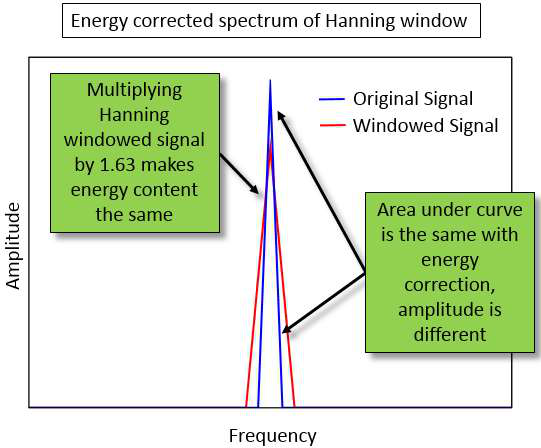
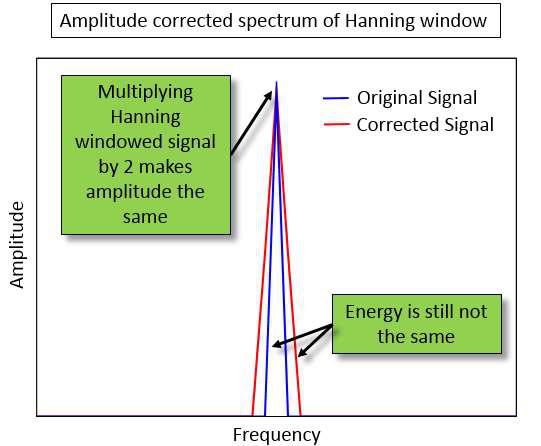
refine: 精修《窗函数修正系数：幅值校正 vs 能量校正》

Changed region(s): [[0.0, 0.1166, 1.0, 1.0], [0.0887, 0.0, 0.9168, 0.0874]]

diff --git a/docs/posts/theory/signal-processing/window-correction-factors.md b/docs/posts/theory/signal-processing/window-correction-factors.md
@@ -4,79 +4,169 @@ title: "窗函数修正系数：幅值校正 vs 能量校正"
 
 # 窗函数修正系数：幅值校正 vs 能量校正
 
-> 加窗抑制了泄漏，却也把信号的幅值和能量都"压小"了——汉宁窗直接让谱峰缩水一半。窗函数修正系数就是补回这笔账的手段，但幅值校正和能量校正只能二选一，选错了，峰值读数或 RMS 能量就会差出 20% 以上。本文讲清两种校正各自修的是什么、Simcenter Testlab 里怎么设、以及 RMS 计算背后自动做的手脚。
+> 加窗在抑制泄漏（leakage）的同时，也会同时压缩信号的谱线幅值与能量。窗函数修正系数（window correction factor）通过在频域对每条谱线乘一个由窗类型决定的固定系数来补偿这种失真，但幅值校正（amplitude correction）与能量校正（energy correction）的系数并不相等——汉宁窗的幅值修正系数为 2.00，能量修正系数为 1.633，同一条谱线只能取其一。本文从汉宁窗的定义出发分步推导两种系数，给出 Simcenter Testing Knowledge Base 与 LMS 理论手册的完整系数表，说明 Simcenter Testlab 中的设置位置，以及 RMS 计算在后台自动换用能量校正值的行为。
 
-## 一、加窗的代价：数据被整体压低了
+## 一、加窗的代价：幅值与能量同时被压缩
 
-用汉宁窗对付泄漏是对的，但窗不是免费午餐。时域上信号乘以窗函数，相当于把中间抬高、两端压到零，信号的峰值和曲线下的面积（能量）同时被削减。
+用汉宁窗抑制泄漏是正确的选择，但这一操作本身会引入新的失真。时域上信号乘以窗函数，相当于对样本施加中间高、两端为零的权重：信号的峰值（幅值）与曲线下的面积（能量）同时被削减。
 
-![汉宁窗压低信号的幅值与能量](/images/window-correction-factors/fig1-hann-distortion.png)
+![信号（蓝）乘以汉宁窗（绿）后，幅值与能量同时被压缩（红）](/images/window-correction-factors/fig1-hann-distortion.png)
 
 *（图源：Simcenter Testing Knowledge Base）*
 
-对一个周期正弦信号加汉宁窗，谱峰幅值恰好被压低为原来的一半。不补回来，频谱上读到的每一条谱线都系统性偏低——做阶次切片、对标声学目标线时，这个偏差会一路带进结论。
+对一个周期正弦信号加汉宁窗，谱峰幅值恰好被压缩为原来的一半。若不补偿，频谱上每条谱线都系统性偏低——做阶次切片、对标声学目标线时，该偏差会一路传递进结论。
 
 ::: info 核心概念
-- **幅值失真**：加窗后谱线峰值整体降低，读到的"这条频率有多大"偏小
-- **能量失真**：频谱曲线下的总面积（对应信号总能量/RMS）同步缩小
-- **修正系数（Correction Factor）**：对窗后频谱的每条谱线统一乘一个固定系数，由窗类型决定，在频域实施
+- **幅值失真（amplitude distortion）**：加窗后谱线峰值整体降低，「这条频率分量有多大」的读数偏小
+- **能量失真（energy distortion）**：频谱曲线下的总面积（对应信号总能量/RMS）同步缩小
+- **修正系数（correction factor）**：对窗后频谱的每条谱线统一乘一个固定系数，系数由窗类型决定，在频域实施
 :::
 
-## 二、幅值校正与能量校正：只能修一个
+## 二、两种修正系数的定义与推导
 
-两种失真对应两种修正系数，但它们不相等——汉宁窗幅值修正系数是 2.00，能量修正系数是 1.633。同一条谱线不可能同时乘两个系数，所以**幅值校正和能量校正只能二选一**：
+### 2.1 汉宁窗的幅值修正系数
 
-| 窗类型 | 幅值修正系数 | 能量修正系数 | 适用对象 |
+汉宁窗的时域表达式为
+
+$$
+w(n) = \frac{1}{2}\left(1 - \cos\frac{2\pi n}{N}\right), \quad n = 0, 1, \ldots, N-1
+$$
+
+其中 $N$ 为窗长（样本数），$w(n)$ 无量纲。信号 $x(n)$ 加窗后为 $x(n)\,w(n)$。
+
+**第一步：求窗序列的均值（相干增益，coherent gain）。**
+
+$$
+\mathrm{CG} = \frac{1}{N}\sum_{n=0}^{N-1} w(n)
+= \frac{1}{2N}\sum_{n=0}^{N-1}\left(1 - \cos\frac{2\pi n}{N}\right)
+= \frac{1}{2} - \frac{1}{2N}\sum_{n=0}^{N-1}\cos\frac{2\pi n}{N}
+= \frac{1}{2}
+$$
+
+整周期上余弦序列的取和为零，故均值只剩 $1/2$。物理意义：窗的平均权重就是谱线幅值被缩放的倍数——这正是周期正弦加汉宁窗后谱峰减半的解析原因。
+
+**第二步：幅值修正系数取相干增益的倒数。**
+
+$$
+K_a = \frac{1}{\mathrm{CG}} = \frac{N}{\sum_{n=0}^{N-1} w(n)} = 2.00
+$$
+
+物理意义：把被窗的平均权重压缩的谱线幅值补回原始量级。
+
+### 2.2 汉宁窗的能量修正系数
+
+**第一步：求加窗后信号均方值的缩放倍数（功率增益）。**
+
+$$
+\frac{1}{N}\sum_{n=0}^{N-1} w^2(n)
+= \frac{1}{4N}\sum_{n=0}^{N-1}\left(1 - 2\cos\frac{2\pi n}{N} + \cos^2\frac{2\pi n}{N}\right)
+= \frac{1}{4}\left(1 + \frac{1}{2}\right)
+= \frac{3}{8}
+$$
+
+其中用到 $\sum\cos(2\pi n/N) = 0$ 与 $\sum\cos^2(2\pi n/N) = N/2$（整周期条件）。物理意义：窗的均方权重即信号功率被缩放的倍数——加汉宁窗后均方值缩至 37.5%。
+
+**第二步：均方根量级缩放为其平方根。**
+
+$$
+\sqrt{\frac{3}{8}} \approx 0.612
+$$
+
+LMS 理论手册中「加窗后信号的能量仅为原信号能量的 61%」即按此均方根量级表述。
+
+**第三步：能量修正系数。**
+
+$$
+K_e = \sqrt{\frac{N}{\sum_{n=0}^{N-1} w^2(n)}} = \sqrt{\frac{8}{3}} \approx 1.633
+$$
+
+物理意义：把被窗的均方权重压缩的能量/RMS 量级补回原始值。手册据此给出「加汉宁窗后的数据需倍乘 1.63 以校正能量」。
+
+### 2.3 各窗型的修正系数表
+
+Simcenter Testing Knowledge Base 的 Window Correction Factors 一文与 LMS 理论手册表 1.2 给出了一致的系数表：
+
+| 窗类型 | 幅值修正系数 | 能量修正系数 | 典型用途（据 LMS 理论手册） |
 | --- | --- | --- | --- |
-| **Uniform（不加窗）** | 1.00 | 1.00 | 唯一两种系数相同的窗 |
-| **Hanning** | 2.00 | 1.633 | 通用频谱分析 |
-| **Flattop** | — | 2.225 | 幅值精度要求高的标定类测量 |
+| **Uniform（矩形/不加窗）** | 1.00 | 1.00 | 唯一两种系数相同的窗；瞬态信号、整周期采样 |
+| **Hanning** | 2.00 | 1.63 | 随机信号的一般目的分析 |
+| **Hamming** | 1.85 | 1.59 | 最高旁瓣低，适用动态范围约 50 dB |
+| **Blackman** | 2.80 | 1.97 | 检测强信号中的弱分量 |
+| **Kaiser-Bessel** | 2.49 | 1.86 | 区分幅值差别大的多音信号 |
+| **Flattop（平顶）** | 4.18 | 2.26 | 纯音信号的精确幅值测量、系统标定 |
 
-选幅值校正（×2.00），谱峰回到真实值——原始信号和校正后信号的峰对得整整齐齐；但峰值对了，曲线下面积就过了头，能量偏大。
-
-![幅值校正后谱峰一致但能量偏大](/images/window-correction-factors/fig4-amplitude-corrected.png)
-
-*（图源：Simcenter Testing Knowledge Base）*
-
-改用能量校正（×1.633），曲线下面积与原始信号一致，总能量对了；代价是谱峰只回到 0.82 左右，单条谱线的峰值读数偏低。
-
-![官方修正系数表](/images/window-correction-factors/fig2-correction-table.png)
+![Simcenter Testing Knowledge Base 给出的窗函数修正系数表](/images/window-correction-factors/fig2-correction-table.png)
 
 *（图源：Simcenter Testing Knowledge Base）*
 
-::: warning 工程注意
-拿幅值校正后的频谱去做能量类计算（部分频段 RMS、总声压级合成），结果会系统性偏大——汉宁窗下 RMS 偏差约 +22%。反过来，用能量校正的谱去读单条谱峰，峰值偏低约 18%。两种校正的差异不是四舍五入误差，是方法选择问题。
+
+三点说明。其一，只有 Uniform 窗（等价于不加窗）的两种系数相同且等于 1，其余窗型两者必然不等。其二，Knowledge Base 的 RMS 计算专题文章在能量校正语境下给 Flattop 窗的系数为 2.225，与上表的 2.26 略有出入，源于 Flattop 窗定义变体的取法不同，不影响本文的方法与结论。其三，LMS 手册表 1.2 还给出重复加窗的情形：汉宁窗施加两次（x2）系数为 2.67/1.91，三次（x3）为 3.20/2.11，即修正系数取决于窗类型与施加次数。
+
+## 三、幅值校正与能量校正只能取其一
+
+两种失真对应两种修正系数，但 $K_a \neq K_e$，同一条谱线不可能同时乘两个系数，因此**幅值校正与能量校正只能二选一**。
+
+选幅值校正（汉宁窗乘 2.00），谱峰回到真实值——校正后谱峰与原始信号一致；但峰值补齐后，曲线下面积随之过补偿，能量偏大。
+
+![幅值校正（乘 2）后谱峰与原始信号一致，但曲线下面积偏大](/images/window-correction-factors/fig4-amplitude-corrected.png)
+
+*（图源：Simcenter Testing Knowledge Base）*
+
+改用能量校正（乘 1.633），曲线下面积与原始信号一致，总能量得到补偿；代价是谱峰只回到
+
+$$
+0.5 \times 1.633 \approx 0.816
+$$
+
+即真实峰值的 82% 左右，单条谱线的峰值读数偏低。
+
+![能量校正（乘 1.63）后曲线下面积与原始信号一致，但谱峰偏低](/images/window-correction-factors/fig5-energy-corrected.png)
+
+*（图源：Simcenter Testing Knowledge Base）*
+
+两种校正的偏差可以定量给出。取两系数之比：
+
+$$
+\frac{K_a}{K_e} = \frac{2.00}{1.633} \approx 1.225
+$$
+
+::: warning 偏差的量级
+用幅值校正后的频谱做能量类计算（部分频段 RMS、总声压级合成），结果系统性偏大——汉宁窗下 RMS 偏差约 +22.5%；反之，用能量校正的谱读单条谱峰，峰值偏低约 18%。该差异不是舍入误差，而是校正模式的选择问题。
 :::
 
-::: tip 怎么选
-- 看单条谱线的幅值（阶次幅值、峰值对标、标定）→ 幅值校正
-- 看能量类指标（频段 RMS、声压级、PSD）→ 能量校正
-- Simcenter Testlab 默认的 Automatic 模式就是按这个逻辑分的：Spectrum/Autopower/Orders 用幅值校正，Power Spectral Density 用能量校正
+::: tip 选择依据
+- 读单条谱线幅值（阶次幅值、峰值对标、标定）：幅值校正
+- 算能量类指标（频段 RMS、声压级、PSD）：能量校正
+- Simcenter Testlab 默认的 Automatic 模式即按此逻辑分配：Spectrum/Autopower/Orders 用幅值校正，Power Spectral Density 用能量校正
 :::
 
-## 三、Testlab 的设置与 RMS 计算的"后台转换"
+## 四、Testlab 的设置与 RMS 计算的后台换算
 
-在 Simcenter Testlab 中，`Tools -> Options -> General` 下的 **2D Correction Mode** 决定二维图（FrontBack、Bode、UpperLower 等）用哪种校正显示：
+在 Simcenter Testlab 中，`Tools -> Options -> General` 下的 **2D Correction Mode** 决定二维图（FrontBack、Bode、UpperLower 等）以哪种校正模式显示：
+
+![Simcenter Testlab 中 Tools -> Options -> General 下的 2D Correction Mode 设置](/images/window-correction-factors/fig6-2d-correction-mode.png)
+
+*（图源：Simcenter Testing Knowledge Base）*
 
 | 选项 | 行为 |
 | --- | --- |
-| **Automatic**（默认） | 按数据类型自动选：Spectrum/Autopower/Orders→幅值校正，PSD→能量校正 |
-| **Fixed Amplitude** | 所有谱一律幅值校正显示 |
-| **Fixed Energy** | 所有谱一律能量校正显示 |
-| **Not Corrected** | 不修正，幅值是所有模式里最低的 |
+| **Automatic**（默认） | 按数据类型自动分配：Spectrum/Autopower/Orders 用幅值校正，PSD 用能量校正 |
+| **Fixed Amplitude** | 所有谱一律按幅值校正显示 |
+| **Fixed Energy** | 所有谱一律按能量校正显示 |
+| **Not Corrected** | 不修正，幅值是所有模式中最低的 |
 | **Original** | 按采集时保存的校正模式显示 |
 
-最容易踩坑的一点在 RMS 计算：在图上右键 `Add Double Cursor -> X`，再 `Calculations -> RMS` 取某频段的均方根值时，**Testlab 会自动在后台把数据转成能量校正值再算**——哪怕屏幕上显示的是幅值校正的谱。
+需要特别注意的是 RMS 计算：在图上右键 `Add Double Cursor -> X`，再 `Calculations -> RMS` 取某频段的均方根值时，**Testlab 会在后台自动把数据换算成能量校正值再计算**——即使屏幕上显示的是幅值校正的谱。按照 Knowledge Base 对 RMS 计算前提的说明，软件在后台统一完成三项换算：谱线取线性格式（功率单位先开方）、幅值格式取 RMS、以及加窗数据施加能量校正。
 
-![幅值校正显示下 RMS 仍与原始信号一致](/images/window-correction-factors/fig7-rms-identical.png)
+![幅值校正显示下，双游标间 RMS 读数仍与原始信号一致](/images/window-correction-factors/fig7-rms-identical.png)
 
 *（图源：Simcenter Testing Knowledge Base）*
 
-所以会出现图上"两条曲线面积明显不一样、RMS 读数却相同"的现象。这不是软件 bug，恰恰是软件替你挡掉了选错校正模式带来的能量偏差。
+因此会出现图上「两条曲线面积明显不同、RMS 读数却相同」的现象。这不是软件缺陷，而是软件在计算中统一换用能量校正值，避免了校正模式选择不一致带来的能量偏差。若需要手工计算 RMS，必须自行完成上述三项换算。
 
-## 四、Python 演示：一个系数修不齐两个量
+## 五、Python 数值验证：一个系数补不齐两个量
 
-手写汉宁窗，用周期正弦验证：幅值系数和能量系数各修各的，谁也没法同时救回峰值和 RMS。
+手写汉宁窗，用周期正弦验证：幅值系数与能量系数各补偿一个量，无法同时恢复峰值与 RMS。
 
 ```python
 import numpy as np
@@ -86,20 +176,20 @@ t = np.arange(N) / fs
 x = np.sin(2*np.pi*100.0*t)                     # 峰值 1.0 的周期正弦
 
 w = 0.5 - 0.5*np.cos(2*np.pi*np.arange(N)/N)    # 手写汉宁窗
-amp_corr = N / w.sum()                          # 幅值修正系数（谱峰补偿）
-eng_corr = np.sqrt(N / (w**2).sum())            # 能量修正系数（能量补偿）
-print(f"汉宁窗 幅值修正系数 = {amp_corr:.3f}   能量修正系数 = {eng_corr:.3f}")
+amp_corr = N / w.sum()                          # 幅值修正系数 Ka
+eng_corr = np.sqrt(N / (w**2).sum())            # 能量修正系数 Ke
+print(f"window amp corr = {amp_corr:.3f}  energy corr = {eng_corr:.3f}")
 
 X = np.abs(np.fft.rfft(x*w)) * 2/N              # 加窗未修正的单边幅值谱
-for name, k in [("未修正", 1.0), ("幅值校正", amp_corr), ("能量校正", eng_corr)]:
+for name, k in (("raw", 1.0), ("amp", amp_corr), ("energy", eng_corr)):
     peak = X.max() * k                          # 谱线峰值
     rms  = np.sqrt(((X*k)**2).sum() / 2)        # 由全部谱线能量合成总 RMS
-    print(f"{name}: 谱峰 = {peak:.4f}, 总RMS = {rms:.4f}")
-print(f"真值:   谱峰 = 1.0000, 总RMS = {np.sqrt(np.mean(x**2)):.4f}")
+    print(f"{name}: peak = {peak:.4f}, rms = {rms:.4f}")
+print(f"true:   peak = 1.0000, rms = {np.sqrt(np.mean(x**2)):.4f}")
 ```
 
-运行结果要点：系数算出来正是 2.000 和 1.633，与手册一致。幅值校正把谱峰精确修回 1.0000，但总 RMS 冲到 0.8660，比真值 0.7071 偏大 22%；能量校正把 RMS 严丝合缝修回 0.7071，谱峰却停在 0.8165。两个系数各救一个量，谁也兼顾不了另一个。
+运行结果：两个系数分别为 2.000 与 1.633，与手册一致。幅值校正把谱峰精确恢复到 1.0000，但总 RMS 为 0.8660，比真值 0.7071 偏大 22%（$2/\sqrt{8/3} \approx 1.225$）；能量校正把 RMS 恢复到 0.7071，谱峰停在 0.8165（真实峰值的 82%）。两个系数各补偿一个量，无法兼顾另一个。
 
-## 五、小结
+## 六、小结
 
-判断标准只有三条：读单条谱线幅值就选幅值校正，算能量和 RMS 就用能量校正；Testlab 的 Automatic 默认已经按数据类型分好了，不要随手改成 Fixed；RMS 计算软件永远在后台用能量校正值，图上曲线面积不同而 RMS 相同是正常现象。
+判据有三条：读单条谱线幅值选幅值校正，算能量与 RMS 用能量校正；Testlab 的 Automatic 默认已按数据类型分配，不应随意改为 Fixed；RMS 计算软件永远在后台换用能量校正值，图上曲线面积不同而 RMS 相同属于正常行为。手工计算 RMS 时，须自行完成「线性格式、RMS 幅值格式、能量校正」三项前置换算。

diff --git a/docs/posts/index.md b/docs/posts/index.md
@@ -79,7 +79,7 @@
 
 - [功率谱密度 PSD：随机信号为什么必须用它](theory/signal-processing/psd-explained.html) — Autopower 幅值随分辨率变化，除以 Δf 后随机数据可跨分辨率对比；正弦信号正好相反，谐波幅值判读用 Autopower
 
-- [窗函数修正系数：幅值校正 vs 能量校正](theory/signal-processing/window-correction-factors.html) — 汉宁窗把谱峰压低一半，幅值系数 2.00 与能量系数 1.633 只能二选一：读谱峰用幅值校正、算 RMS 用能量校正，Testlab 的 RMS 计算永远在后台用能量校正值
+- [窗函数修正系数：幅值校正 vs 能量校正](theory/signal-processing/window-correction-factors.html) — 幅值系数 Ka=N/sum(w) 与能量系数 Ke=sqrt(N/sum(w^2)) 从汉宁窗定义分步推导（相干增益 1/2 与均方增益 3/8）：汉宁窗 2.00/1.633、平顶窗 4.18/2.26 全系数表；选错模式 RMS 偏差 +22.5%（Ka/Ke=1.225）；Testlab Automatic 按数据类型分配、RMS 计算后台换用能量校正值
 
 - [RMS 与总级：从时域到频域的能量守恒](theory/signal-processing/rms-overall-level.html) — 谱的 RMS 就是总级：谱线平方和开根号，Parseval 定理保证时域频域对得上；手动复算须核对线性单位、RMS 格式、能量校正三件事，Peak 格式硬算偏大 3 dB
 - [吉布斯现象：为什么陡峭滤波器会振铃](theory/signal-processing/gibbs-phenomenon.html) — 时域突变需要无限带宽，实测必然截断，边沿就留下约 9% 的振铃过冲：截断量决定振铃时长、滤波器陡度决定振铃幅度，压振铃要靠缓滚降 Bessel 而不是加带宽
